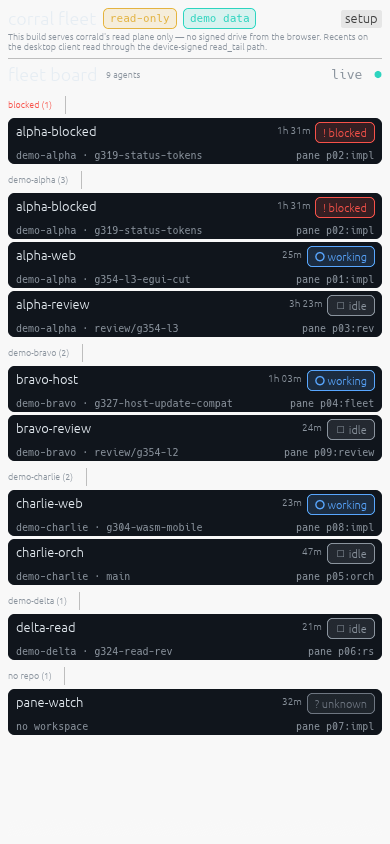
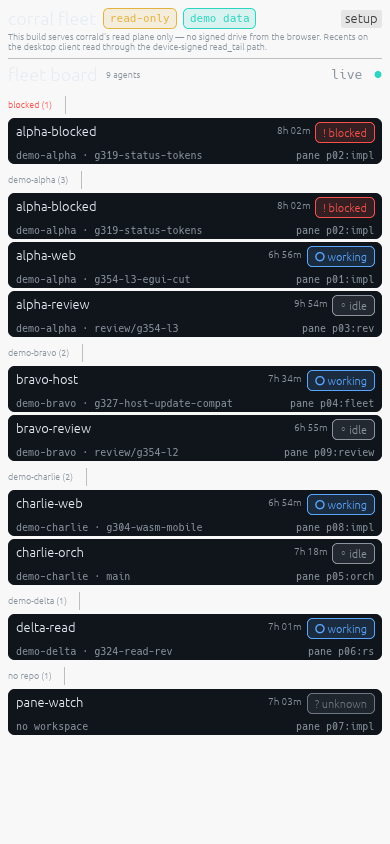
egui (#358): resolve idle mark U+25E6 from the built-in Hack fallback
- configure_fonts (desktop) and WebCorralApp::new (wasm) now install
  theme::board_font_definitions: the egui defaults with the toolkit's own
  Hack font appended to the proportional chain, so the idle chip glyph
  U+25E6 resolves instead of epaint's tofu replacement U+25A1
  (pixel-verified by the #354 L3 review). No bundled font assets: Hack
  ships inside egui/epaint (epaint_default_fonts), so the retired #347
  bundle machinery stays retired.
- Focused glyph-coverage test bites: RED at the f06c704 base ("state chip
  \"\u{25E6} idle\" has no usable glyph in the configured fonts", exit 101)
  -> GREEN after. It asserts the real chip text against the fonts each
  surface installs (configure_fonts + board_font_definitions). Done is
  deliberately excluded: herdr never emits `done` on the wire and its
  U+2713 mark exists in no toolkit-default font.
- Evidence: board-demo-390x844.png + board-demo-desktop-1280x800.png
  re-captured from the wasm demo; idle chips now read a small hollow
  circle (vision-verified against the base PNG's tofu squares).
  capture.log records the re-run, commands and new sha256s.
- Gates: cargo test --workspace --all-targets (528 passed), clippy
  --all-targets -D warnings, fmt --check, cargo deny --locked --workspace
  check, cargo audit --deny warnings, wasm-pack build + demo privacy scan
  (0 forbidden matches) — all green.

diff --git a/clients/egui/src/app.rs b/clients/egui/src/app.rs
@@ -2192,6 +2192,11 @@ impl CorralApp {
 }
 
 fn configure_fonts(ctx: &egui::Context) {
+    // #358: the proportional default trio lacks the board's mark glyphs
+    // (idle U+25E6 rendered as tofu U+25A1); board_font_definitions appends
+    // the built-in Hack fallback. WebCorralApp::new installs the same
+    // definitions on the wasm surface.
+    ctx.set_fonts(theme::board_font_definitions());
     let mut style = (*ctx.style_of(egui::Theme::Dark)).clone();
     style.spacing.item_spacing = egui::vec2(6.0, 4.0);
     style.spacing.button_padding = egui::vec2(8.0, 3.0);
@@ -3123,6 +3128,57 @@ mod tests {
         assert_eq!(active, Tab::Settings);
         assert!(text_rect(&output, "Issues").is_none());
         assert!(text_rect(&output, "Audit").is_none());
+    }
+
+    /// #358: every board state-chip mark glyph must resolve from the fonts
+    /// the app configures (configure_fonts over the egui defaults). RED at
+    /// the post-#354 base: idle U+25E6 has no glyph in the proportional
+    /// chain (Ubuntu-Light/NotoEmoji-Regular/emoji-icon-font), so epaint
+    /// paints the tofu replacement U+25A1 (pixel-verified in the L3 review
+    /// evidence).
+    ///
+    /// `Done` is deliberately absent: herdr 0.8.2 never emits `done`
+    /// (finished panes fall back to idle, model.rs), so no board chip can
+    /// carry it — and its U+2713 mark exists in no toolkit-default font, so
+    /// asserting it would require re-adding the bundled-font machinery the
+    /// #354 cut retired. The four wire-reachable states are the contract.
+    #[test]
+    fn state_chip_mark_glyphs_resolve_from_configured_fonts() {
+        // Idle first: the #358 regression is the idle chip (U+25E6), and
+        // the failing assertion must name it before any sibling mark.
+        let likes = [
+            theme::AgentStateLike::Idle,
+            theme::AgentStateLike::Blocked,
+            theme::AgentStateLike::Working,
+            theme::AgentStateLike::Unknown,
+        ];
+        // The exact text the board paints: mark glyph + raw state token
+        // (board.rs state_chip_text) in the chip's proportional font.
+        let font = egui::FontId::proportional(11.0);
+
+        // Both boards must resolve every chip mark glyph: the desktop app
+        // (configure_fonts in CorralApp::new) and the wasm demo board
+        // (WebCorralApp::new installs the same board_font_definitions).
+        let mut surfaces: Vec<(&str, egui::Context)> = Vec::new();
+        let desktop = egui::Context::default();
+        configure_fonts(&desktop);
+        surfaces.push(("configure_fonts (desktop)", desktop));
+        let wasm = egui::Context::default();
+        wasm.set_fonts(theme::board_font_definitions());
+        surfaces.push(("board_font_definitions (wasm)", wasm));
+
+        for (surface, ctx) in surfaces {
+            let mut output = ctx.run_ui(egui::RawInput::default(), |ui| {
+                for like in likes {
+                    let chip = format!("{} {}", like.mark_glyph(), like.label());
+                    assert!(
+                        ui.fonts_mut(|fonts| fonts.has_glyphs(&font, &chip)),
+                        "{surface}: state chip {chip:?} has no usable glyph in the configured fonts",
+                    );
+                }
+            });
+            output.textures_delta.clear();
+        }
     }
 
     // ------------------------------------------------------------------

diff --git a/clients/egui/src/theme.rs b/clients/egui/src/theme.rs
@@ -213,6 +213,27 @@ pub fn dark_dashboard() -> Visuals {
     v
 }
 
+/// Fonts the board renders with on BOTH surfaces (the desktop app's
+/// `configure_fonts` in app.rs and the wasm app's `WebCorralApp::new` in
+/// web.rs install these): the egui defaults plus the toolkit's built-in
+/// monospace default (Hack) appended to the proportional chain. Mark glyphs
+/// the default proportional trio (Ubuntu-Light/NotoEmoji-Regular/
+/// emoji-icon-font) lacks then resolve from Hack instead of epaint's tofu
+/// replacement U+25A1 — the #358 idle marker U+25E6 is the live case (the
+/// wire never emits `done`, and its U+2713 mark exists in no
+/// toolkit-default font, so it stays out of scope). No bundled font assets:
+/// Hack ships inside egui/epaint itself (epaint_default_fonts), so nothing
+/// from the retired #347 bundle machinery is re-added.
+pub(crate) fn board_font_definitions() -> eframe::egui::FontDefinitions {
+    let mut fonts = eframe::egui::FontDefinitions::default();
+    fonts
+        .families
+        .entry(eframe::egui::FontFamily::Proportional)
+        .or_default()
+        .push("Hack".to_owned());
+    fonts
+}
+
 #[cfg(test)]
 mod tests {
     use super::*;

diff --git a/clients/egui/src/web.rs b/clients/egui/src/web.rs
@@ -151,6 +151,10 @@ impl WebCorralApp {
         style.spacing.item_spacing = egui::vec2(6.0, 4.0);
         style.spacing.button_padding = egui::vec2(8.0, 3.0);
         cc.egui_ctx.set_style_of(egui::Theme::Dark, style);
+        // #358: same font chain as the desktop app (app.rs configure_fonts)
+        // — board mark glyphs (idle U+25E6) must resolve instead of
+        // rendering as tofu.
+        cc.egui_ctx.set_fonts(theme::board_font_definitions());
 
         let setup = WebSetup::load().unwrap_or(WebSetup {
             mode: WebMode::Demo,
